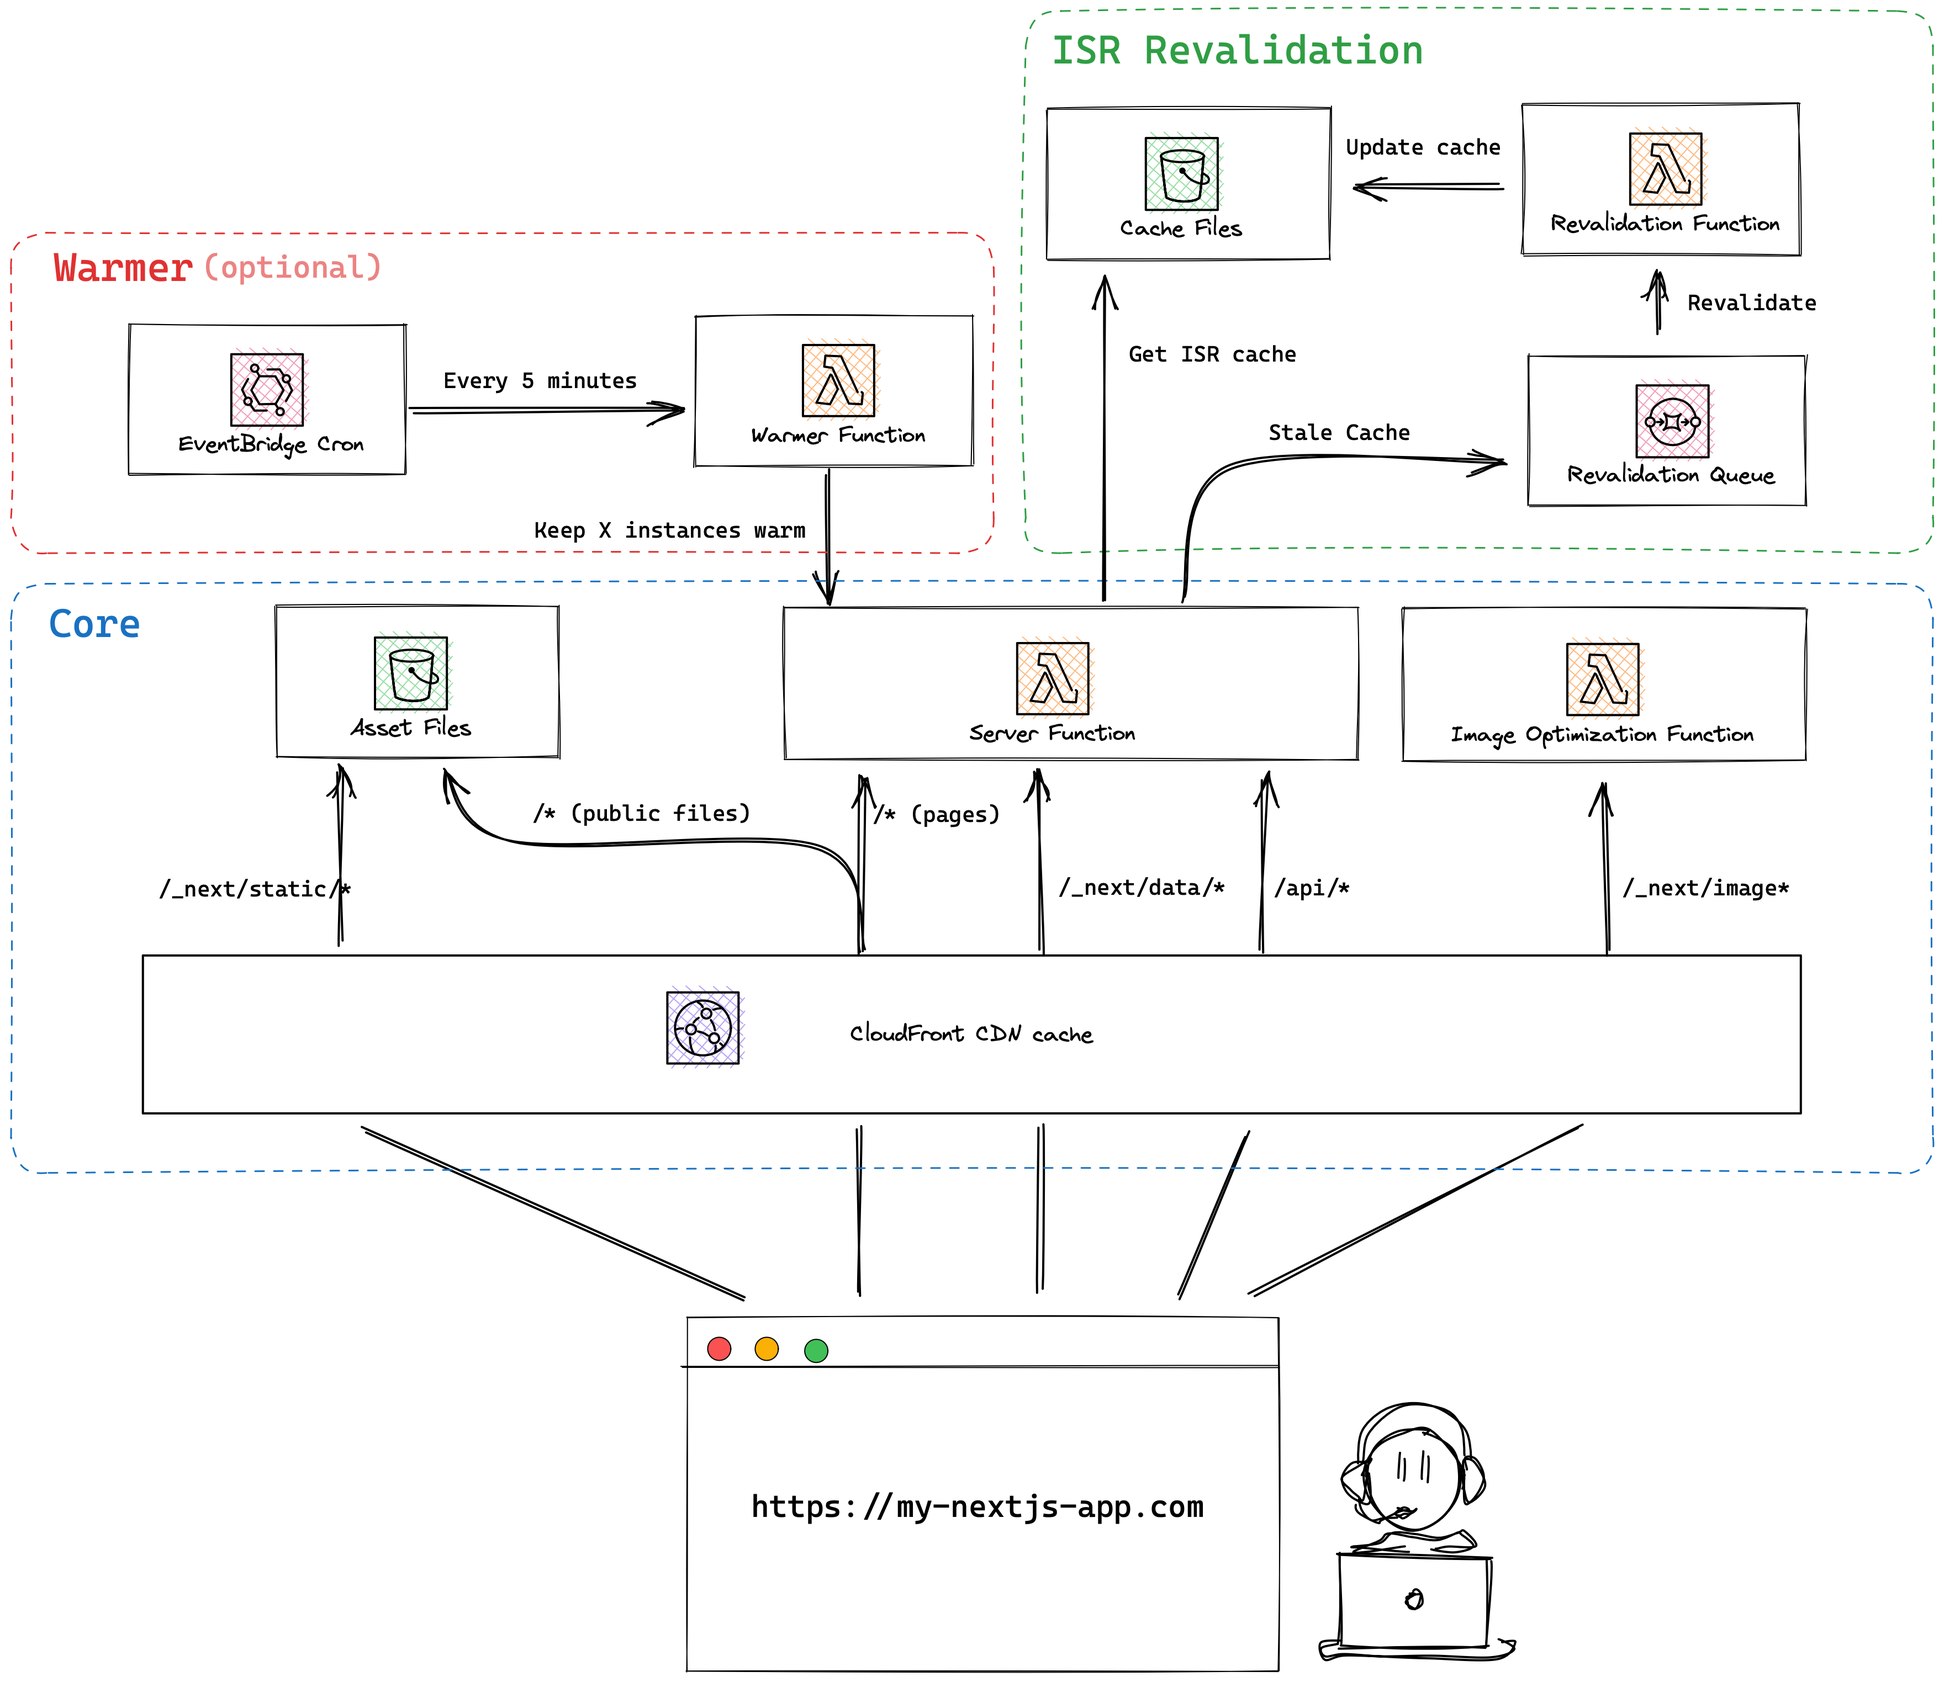
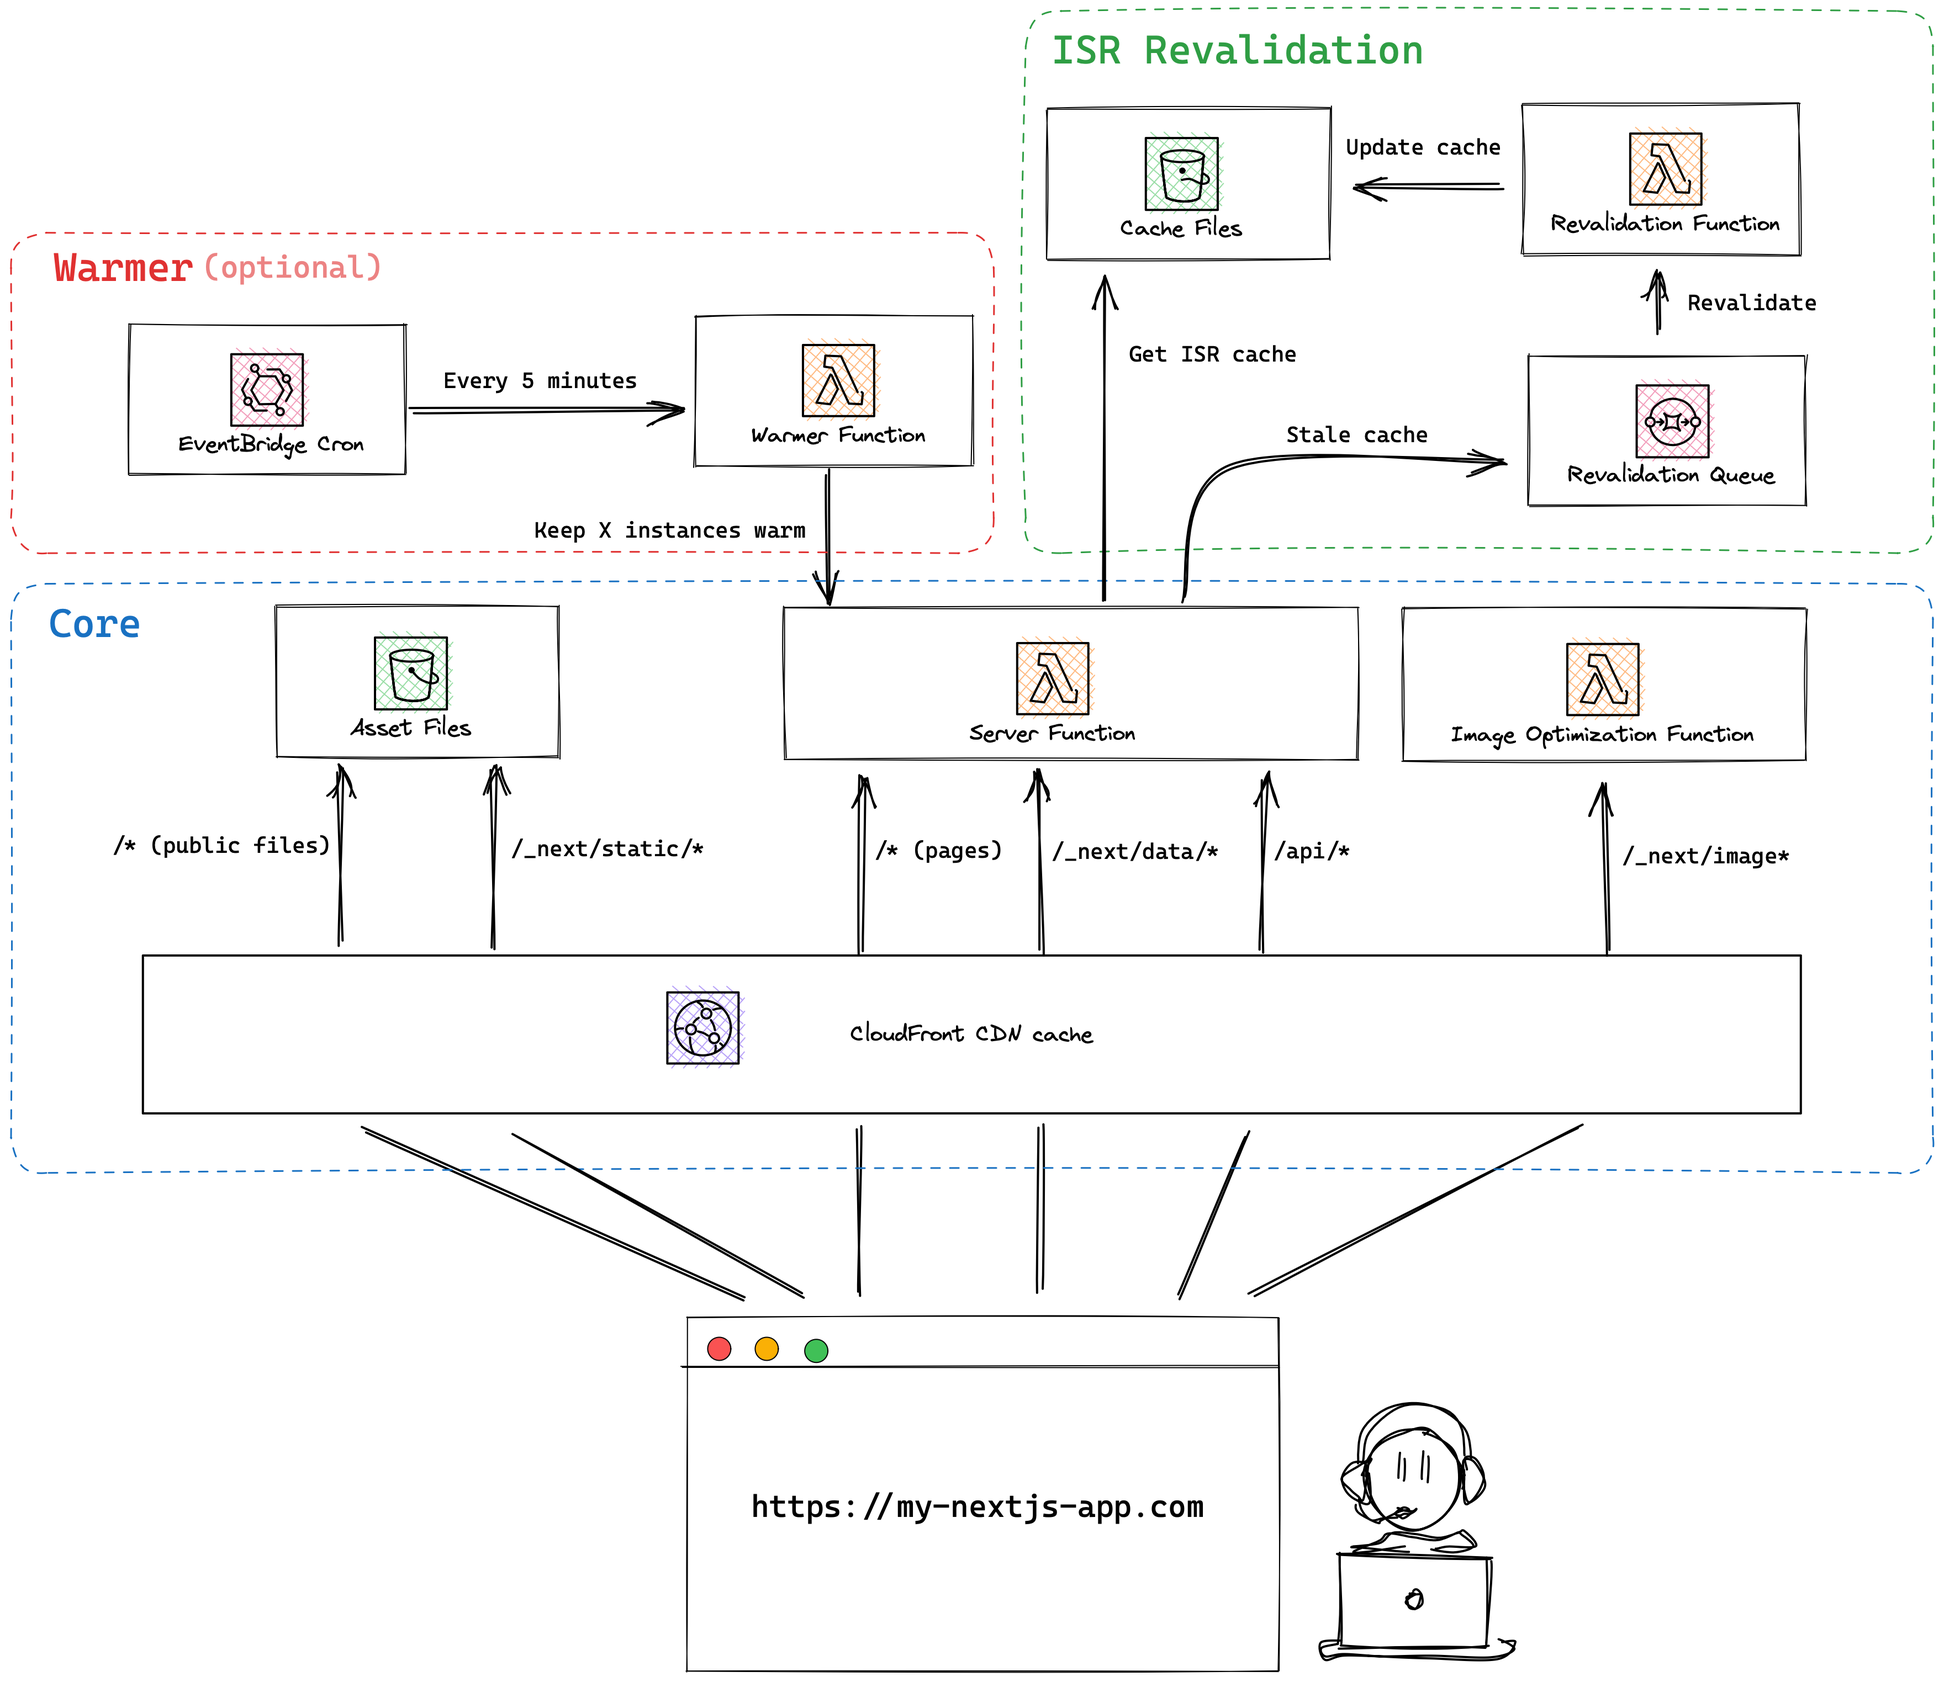
Update architecture to create one cache behavior per top-level file and folder in /public

diff --git a/packages/open-next/src/adapters/server-adapter.ts b/packages/open-next/src/adapters/server-adapter.ts
@@ -89,6 +89,9 @@ export async function handler(
   }
 
   // WORKAROUND: public/ static files served by the server function (AWS specific) — https://github.com/serverless-stack/open-next#workaround-public-static-files-served-by-the-server-function-aws-specific
+  // TODO: This is no longer required if each top-level file and folder in "/public"
+  //       is handled by a separate cache behavior. Leaving here for backward compatibility.
+  //       Remove this on next major release.
   if (publicAssets.files.includes(internalEvent.rawPath)) {
     return internalEvent.type === "cf"
       ? formatCloudFrontFailoverResponse(event as CloudFrontRequestEvent)

diff --git a/README.md b/README.md
@@ -172,12 +172,9 @@ The server function adapter wraps around `NextServer` and exports a handler func
 ```diff
   .next/                -> NextServer
 + .open-next/
-+   public-files.json   -> `/public` file listing
   node_modules/         -> dependencies
 + index.mjs             -> server function adapter
 ```
-
-The file `public-files.json` contains the top-level file and directory names in your app's `public/` folder. At runtime, the server function will forward any requests made to these files and directories to S3. And S3 will serve them directly. [See why.](#workaround-public-static-files-served-out-by-server-function-aws-specific)
 
 **Monorepo**
 
@@ -198,7 +195,6 @@ In this case, the server function adapter needs to be created inside `packages/w
     web/
       .next/                -> NextServer
 +     .open-next/
-+       public-files.json   -> `/public` file listing
       node_modules/          -> dependencies from root node_modules (optional)
 +     index.mjs              -> server function adapter
   node_modules/              -> dependencies from package node_modules
@@ -211,13 +207,14 @@ This ensures that the Lambda handler remains at `index.mjs`.
 
 Create a CloudFront distribution, and dispatch requests to their corresponding handlers (behaviors). The following behaviors are configured:
 
-| Behavior          | Requests            | CloudFront Function                                                                         | Origin                                                                                                                                       |
-| ----------------- | ------------------- | ------------------------------------------------------------------------------------------- | -------------------------------------------------------------------------------------------------------------------------------------------- |
-| `/_next/static/*` | Hashed static files | -                                                                                           | S3 bucket                                                                                                                                    |
-| `/_next/image`    | Image optimization  | -                                                                                           | image optimization function                                                                                                                  |
-| `/_next/data/*`   | data requests       | set `x-forwarded-host`<br />[see why](#workaround-set-x-forwarded-host-header-aws-specific) | server function                                                                                                                              |
-| `/api/*`          | API                 | set `x-forwarded-host`<br />[see why](#workaround-set-x-forwarded-host-header-aws-specific) | server function                                                                                                                              |
-| `/*`              | catch all           | set `x-forwarded-host`<br />[see why](#workaround-set-x-forwarded-host-header-aws-specific) | server function fallback to<br />S3 bucket on 503<br />[see why](#workaround-public-static-files-served-out-by-server-function-aws-specific) |
+| Behavior                                                                                                                      | Requests            | CloudFront Function                                                                         | Origin                      |
+| ----------------------------------------------------------------------------------------------------------------------------- | ------------------- | ------------------------------------------------------------------------------------------- | --------------------------- |
+| `/_next/static/*`                                                                                                             | Hashed static files | -                                                                                           | S3 bucket                   |
+| `/favicon.ico`<br />`/my-images/*`<br />[see why](#workaround-public-static-files-served-out-by-server-function-aws-specific) | public assets       | -                                                                                           | S3 bucket                   |
+| `/_next/image`                                                                                                                | Image optimization  | -                                                                                           | image optimization function |
+| `/_next/data/*`                                                                                                               | data requests       | set `x-forwarded-host`<br />[see why](#workaround-set-x-forwarded-host-header-aws-specific) | server function             |
+| `/api/*`                                                                                                                      | API                 | set `x-forwarded-host`<br />[see why](#workaround-set-x-forwarded-host-header-aws-specific) | server function             |
+| `/*`                                                                                                                          | catch all           | set `x-forwarded-host`<br />[see why](#workaround-set-x-forwarded-host-header-aws-specific) | server function             |
 
 #### Running at edge
 
@@ -225,13 +222,14 @@ The server function can also run at edge locations by configuring it as Lambda@E
 
 To configure the CloudFront distribution:
 
-| Behavior          | Requests            | CloudFront Function                                                                         | Lambda@Edge     | Origin                                                                                               |
-| ----------------- | ------------------- | ------------------------------------------------------------------------------------------- | --------------- | ---------------------------------------------------------------------------------------------------- |
-| `/_next/static/*` | Hashed static files | -                                                                                           | -               | S3 bucket                                                                                            |
-| `/_next/image`    | Image optimization  | -                                                                                           | -               | image optimization function                                                                          |
-| `/_next/data/*`   | data requests       | set `x-forwarded-host`<br />[see why](#workaround-set-x-forwarded-host-header-aws-specific) | server function | -                                                                                                    |
-| `/api/*`          | API                 | set `x-forwarded-host`<br />[see why](#workaround-set-x-forwarded-host-header-aws-specific) | server function | -                                                                                                    |
-| `/*`              | catch all           | set `x-forwarded-host`<br />[see why](#workaround-set-x-forwarded-host-header-aws-specific) | server function | S3 bucket<br />[see why](#workaround-public-static-files-served-out-by-server-function-aws-specific) |
+| Behavior                                                                                                                      | Requests            | CloudFront Function                                                                         | Lambda@Edge     | Origin                      |
+| ----------------------------------------------------------------------------------------------------------------------------- | ------------------- | ------------------------------------------------------------------------------------------- | --------------- | --------------------------- |
+| `/_next/static/*`                                                                                                             | Hashed static files | -                                                                                           | -               | S3 bucket                   |
+| `/favicon.ico`<br />`/my-images/*`<br />[see why](#workaround-public-static-files-served-out-by-server-function-aws-specific) | public assets       | -                                                                                           | -               | S3 bucket                   |
+| `/_next/image`                                                                                                                | Image optimization  | -                                                                                           | -               | image optimization function |
+| `/_next/data/*`                                                                                                               | data requests       | set `x-forwarded-host`<br />[see why](#workaround-set-x-forwarded-host-header-aws-specific) | server function | -                           |
+| `/api/*`                                                                                                                      | API                 | set `x-forwarded-host`<br />[see why](#workaround-set-x-forwarded-host-header-aws-specific) | server function | -                           |
+| `/*`                                                                                                                          | catch all           | set `x-forwarded-host`<br />[see why](#workaround-set-x-forwarded-host-header-aws-specific) | server function | -                           |
 
 #### Revalidation function
 
@@ -389,26 +387,49 @@ This cost estimate is based on the `us-east-1` region pricing and does not consi
 
 ## Limitations and workarounds
 
-#### WORKAROUND: `public/` static files served by the server function (AWS specific)
+#### WORKAROUND: Create one cache behavior per top-level file and folder in `public/` (AWS specific)
 
-As mentioned in the [S3 bucket](#s3-bucket) section, files in your app's `public/` folder are static and are uploaded to the S3 bucket. Ideally, requests for these files should be handled by the S3 bucket, like so:
+As mentioned in the [Asset files](#asset-files) section, files in your app's `public/` folder are static and are uploaded to the S3 bucket. And requests for these files are handled by the S3 bucket, like so:
 
 ```
-
 https://my-nextjs-app.com/favicon.ico
-
+https://my-nextjs-app.com/my-images/avatar.png
 ```
 
-This requires the CloudFront distribution to have the behavior `/favicon.ico` and set the S3 bucket as the origin. However, CloudFront has a [default limit of 25 behaviors per distribution](https://docs.aws.amazon.com/AmazonCloudFront/latest/DeveloperGuide/cloudfront-limits.html#limits-web-distributions), so it is not a scalable solution to create one behavior per file.
+Ideally, we would create a single cache behavior that routes all requests for `public/` files to the S3 bucket. Unfortunately, CloudFront does not support regex or advanced string patternss for cache behaviors (ie. `/favicon.ico|my-images\/*/` ).
 
-To work around the issue, requests for `public/` files are handled by the catch all behavior `/*`. This behavior sends the request to the server function first, and if the server fails to handle the request, it will fall back to the S3 bucket.
+To work around this limitation, we create a separate cache behavior for each top-level file and folder in `public/`. For example, if your folder structure is:
 
-During the build process, the top-level file and directory names in the `public/` folder are saved to the `.open-next/public-files.json` file within the server function bundle. At runtime, the server function checks the request URL path against the file. If the request is made to a file in the `public/` folder:
+```
+public/
+  favicon.ico
+  my-images/
+    avatar.png
+    avatar-dark.png
+  foo/
+    bar.png
+```
 
-- When deployed to a single region (Lambda), the server function returns a 503 response right away, and S3, which is configured as the failover origin on 503 status code, will serve the file. [Refer to the CloudFront setup.](#cloudfront-distribution)
-- When deployed to the edge (Lambda@Edge), the server function returns the request object. And the request will be handled by S3, which is configured as the origin. [Refer to the CloudFront setup.](#running-at-edge)
+You would create three cache behaviors: `/favicon.ico`, `/my-images/*`, and `/foo/*`. Each of these behaviors points to the S3 bucket.
 
-This means that on cache miss, the request may take slightly longer to process.
+One thing to be aware of is that CloudFront has a [default limit of 25 behaviors per distribution](https://docs.aws.amazon.com/AmazonCloudFront/latest/DeveloperGuide/cloudfront-limits.html#limits-web-distributions). If you have a lot of top-level files and folders, you may reach this limit. To avoid this, consider moving some or all files and folders into a subdirectory:
+
+```
+public/
+  files/
+    favicon.ico
+    my-images/
+      avatar.png
+      avatar-dark.png
+    foo/
+      bar.png
+```
+
+In this case, you only need to create one cache behavior: `/files/*`.
+
+Make sure to update your code accordingly to reflect the new file paths.
+
+Alternatively, you can [request an increase to the limit through AWS Support](https://console.aws.amazon.com/support/home#/case/create?issueType=service-limit-increase&limitType=service-code-cloudfront-distributions).
 
 #### WORKAROUND: Set `x-forwarded-host` header (AWS specific)
 
